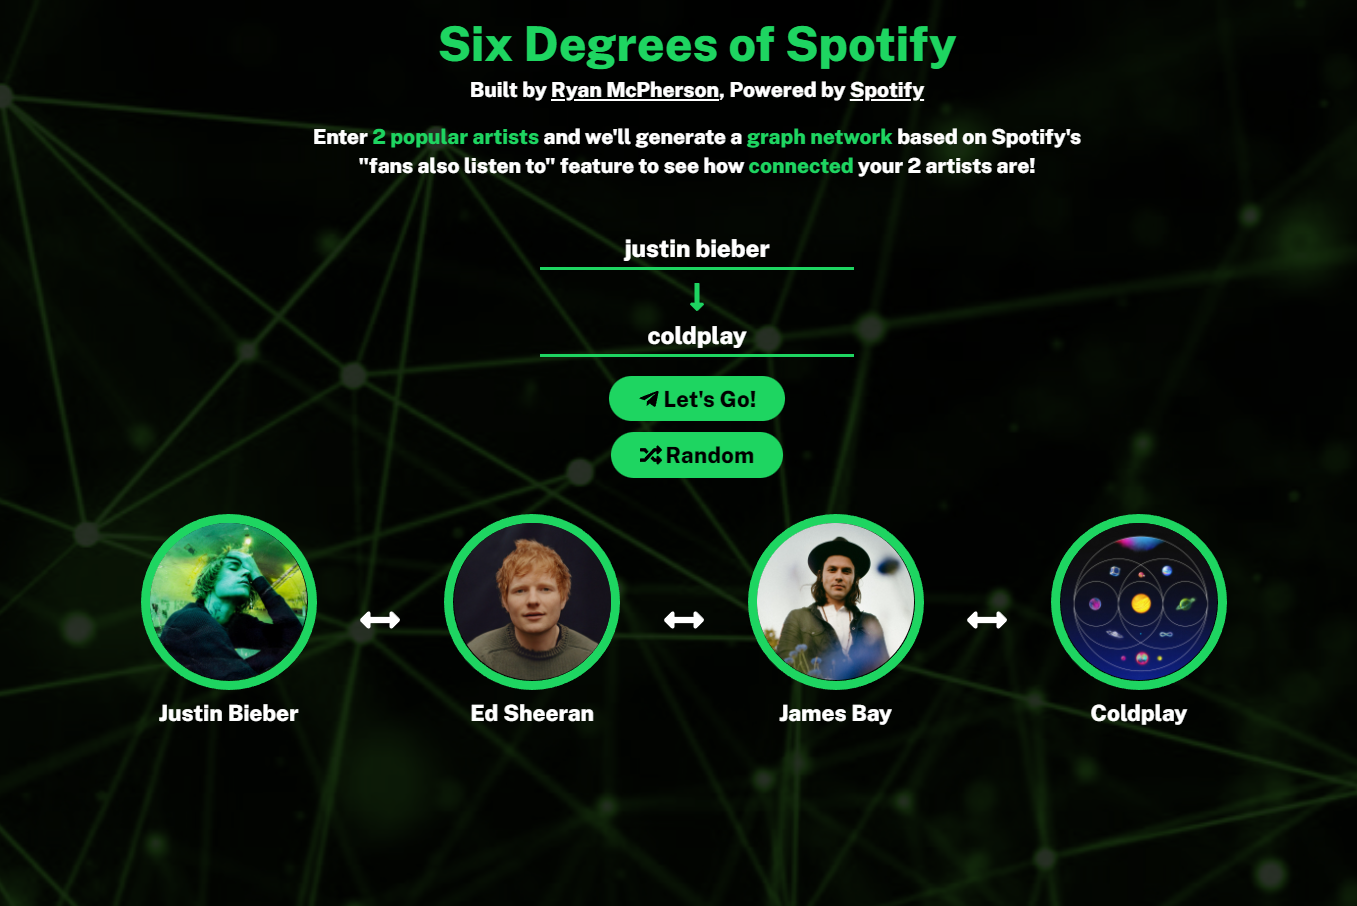
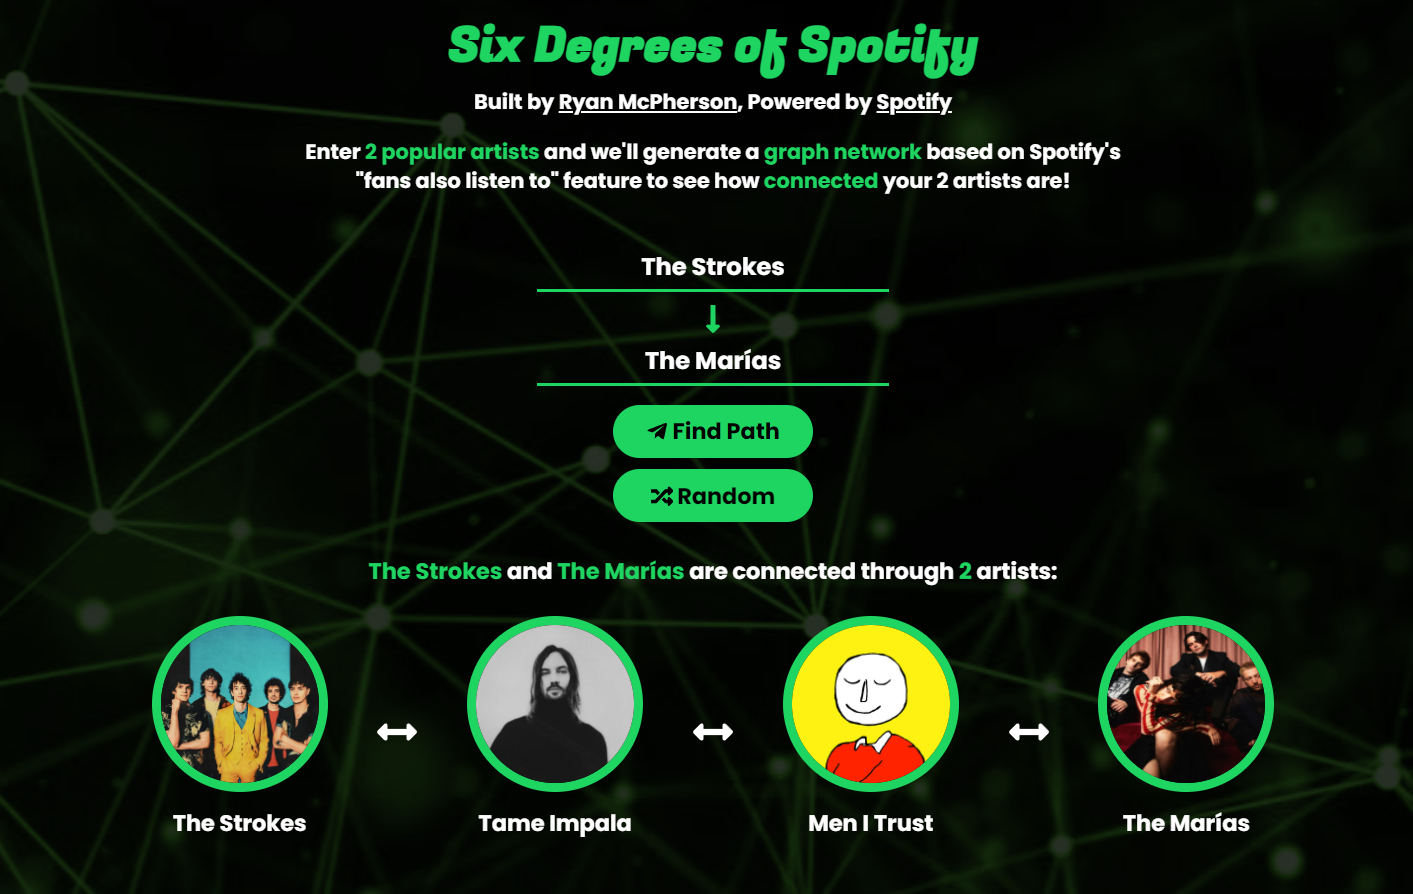
chore: update readme

diff --git a/README.md b/README.md
@@ -8,8 +8,8 @@ A web app to find the shortest path between 2 popular Spotify artists using data
 ## :crystal_ball: How it Works
 1. Six Degrees of Spotify consists of both a React [`/client`](/client) and a Node.js [`/server`](/server)
 2. Users interact with the UI to send requests to the server to compute their requested artist path
-3. Upon request, the server will generate an unweighted, bidirectional [graph](https://en.wikipedia.org/wiki/Graph_(abstract_data_type)) with ~15,000 vertices (artists) and ~160,000 edges (connections) from a [`flat-file`](/server/data/connections-50.txt)
-4. The data inside the flat-file was generated on 7/25/22 with a [popularity](https://help.chartmetric.com/en/articles/1560578-what-is-spotify-popularity-index) minimum of 50 using code from [`/server/data-scrapping`](/server/data-scrapping) and the [`GET /v1/artists/{id}/related-artists`](https://developer.spotify.com/console/get-artist-related-artists/) endpoint from the [Spotify Web API](https://developer.spotify.com/documentation/web-api/)
+3. Upon request, the server will generate an unweighted, bidirectional [graph](https://en.wikipedia.org/wiki/Graph_(abstract_data_type)) with 19,215 vertices (artists) and 205,907 edges (connections) from a [`flat-file`](/server/data/connections-50.txt)
+4. The data inside the flat-file was generated on 9/22/24 with a [popularity](https://help.chartmetric.com/en/articles/1560578-what-is-spotify-popularity-index) minimum of 50 using code from [`/server/data-scrapping`](/server/data-scrapping) and the [`GET /v1/artists/{id}/related-artists`](https://developer.spotify.com/console/get-artist-related-artists/) endpoint from the [Spotify Web API](https://developer.spotify.com/documentation/web-api/)
 5. After building the graph, [breadth first search](https://www.hackerearth.com/practice/algorithms/graphs/breadth-first-search/tutorial/) is run to find the shortest path (smallest degree) between the 2 input artists
 6. Finally, the server sends the computed path to the client to be displayed
 
